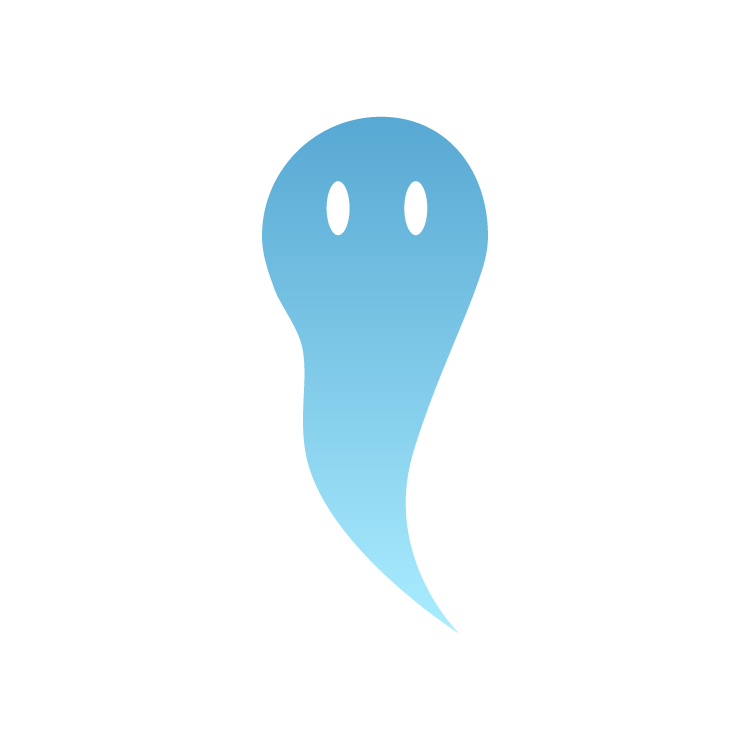
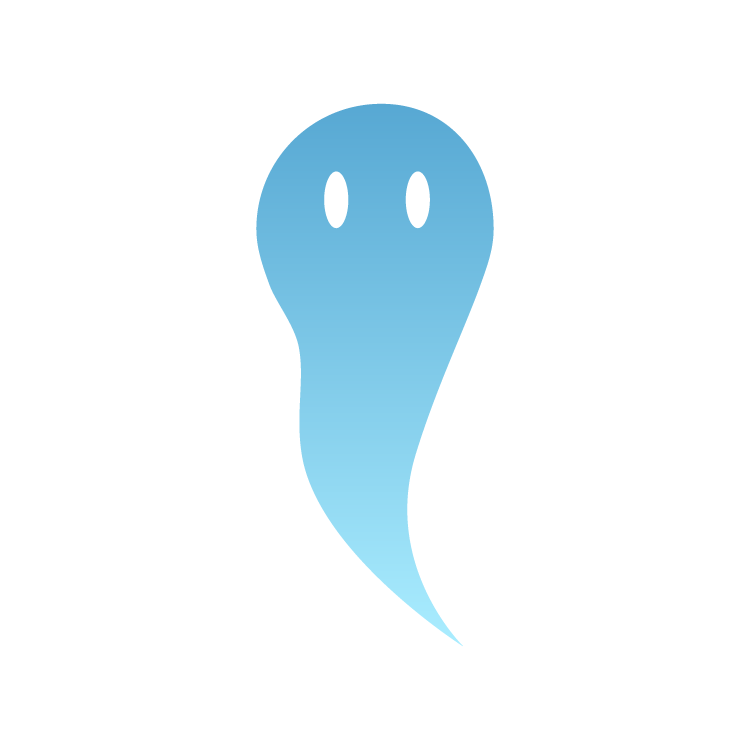
Readjusted artwork

diff --git a/platforms/ios/www/js/ui.js b/platforms/ios/www/js/ui.js
@@ -460,7 +460,7 @@ $(document).ready(function() {
         e.preventDefault();
         numTimesActiveUpgradeInteraction++;
         if (jQuery(this).hasClass("affordable") && numTimesActiveUpgradeInteraction <= 3) {
-            jQuery("#upgrade-success-header").html("<img src='css/images/PowerWalk-main.png' id='upgrade-success-img'><br>Increased StepSteps per Step by <span>941</span>!")
+            jQuery("#upgrade-success-header").html("<img src='css/images/PowerWalk-main.png' id='upgrade-success-img'><br>Increased number of StepSteps per Step!")
 
             jQuery(".upgrade-success").show().addClass("upgradefadein");
             jQuery("#upgrade-success-header").addClass("textinout");
@@ -487,7 +487,7 @@ $(document).ready(function() {
         numTimesPassiveUpgradeInteraction++;
         if (jQuery(this).hasClass("affordable") && numTimesPassiveUpgradeInteraction <= 3) {
 
-            jQuery("#upgrade-success-header").html("<img src='css/images/AutoWalk-main.png' id='upgrade-success-img'><br>Increased StepSteps per Second by <span>941</span>!")
+            jQuery("#upgrade-success-header").html("<img src='css/images/AutoWalk-main.png' id='upgrade-success-img'><br>Increased number of StepSteps per Second!")
             jQuery(".upgrade-success").show().addClass("upgradefadein");
             jQuery("#upgrade-success-header").addClass("textinout");
             setTimeout(function() {

diff --git a/www/js/ui.js b/www/js/ui.js
@@ -460,7 +460,7 @@ $(document).ready(function() {
         e.preventDefault();
         numTimesActiveUpgradeInteraction++;
         if (jQuery(this).hasClass("affordable") && numTimesActiveUpgradeInteraction <= 3) {
-            jQuery("#upgrade-success-header").html("<img src='css/images/PowerWalk-main.png' id='upgrade-success-img'><br>Increased StepSteps per Step by <span>941</span>!")
+            jQuery("#upgrade-success-header").html("<img src='css/images/PowerWalk-main.png' id='upgrade-success-img'><br>Increased number of StepSteps per Step!")
 
             jQuery(".upgrade-success").show().addClass("upgradefadein");
             jQuery("#upgrade-success-header").addClass("textinout");
@@ -487,7 +487,7 @@ $(document).ready(function() {
         numTimesPassiveUpgradeInteraction++;
         if (jQuery(this).hasClass("affordable") && numTimesPassiveUpgradeInteraction <= 3) {
 
-            jQuery("#upgrade-success-header").html("<img src='css/images/AutoWalk-main.png' id='upgrade-success-img'><br>Increased StepSteps per Second by <span>941</span>!")
+            jQuery("#upgrade-success-header").html("<img src='css/images/AutoWalk-main.png' id='upgrade-success-img'><br>Increased number of StepSteps per Second!")
             jQuery(".upgrade-success").show().addClass("upgradefadein");
             jQuery("#upgrade-success-header").addClass("textinout");
             setTimeout(function() {

diff --git a/platforms/ios/www/index.html b/platforms/ios/www/index.html
@@ -124,7 +124,7 @@
 
 
                 <div class="upgrade-success">
-                    <h2 id="upgrade-success-header"><img src="css/images/PowerWalk-main.png" id="upgrade-success-img"><br>Number of StepSteps per Step increased by <span>941</span>!</h2>
+                    <h2 id="upgrade-success-header"><img src="css/images/PowerWalk-main.png" id="upgrade-success-img"><br>Increased number of StepSteps per Step!</h2>
                 </div>
 
 

diff --git a/www/index.html b/www/index.html
@@ -124,7 +124,7 @@
 
 
                 <div class="upgrade-success">
-                    <h2 id="upgrade-success-header"><img src="css/images/PowerWalk-main.png" id="upgrade-success-img"><br>Number of StepSteps per Step increased by <span>941</span>!</h2>
+                    <h2 id="upgrade-success-header"><img src="css/images/PowerWalk-main.png" id="upgrade-success-img"><br>Increased number of StepSteps per Step!</h2>
                 </div>
 
 
